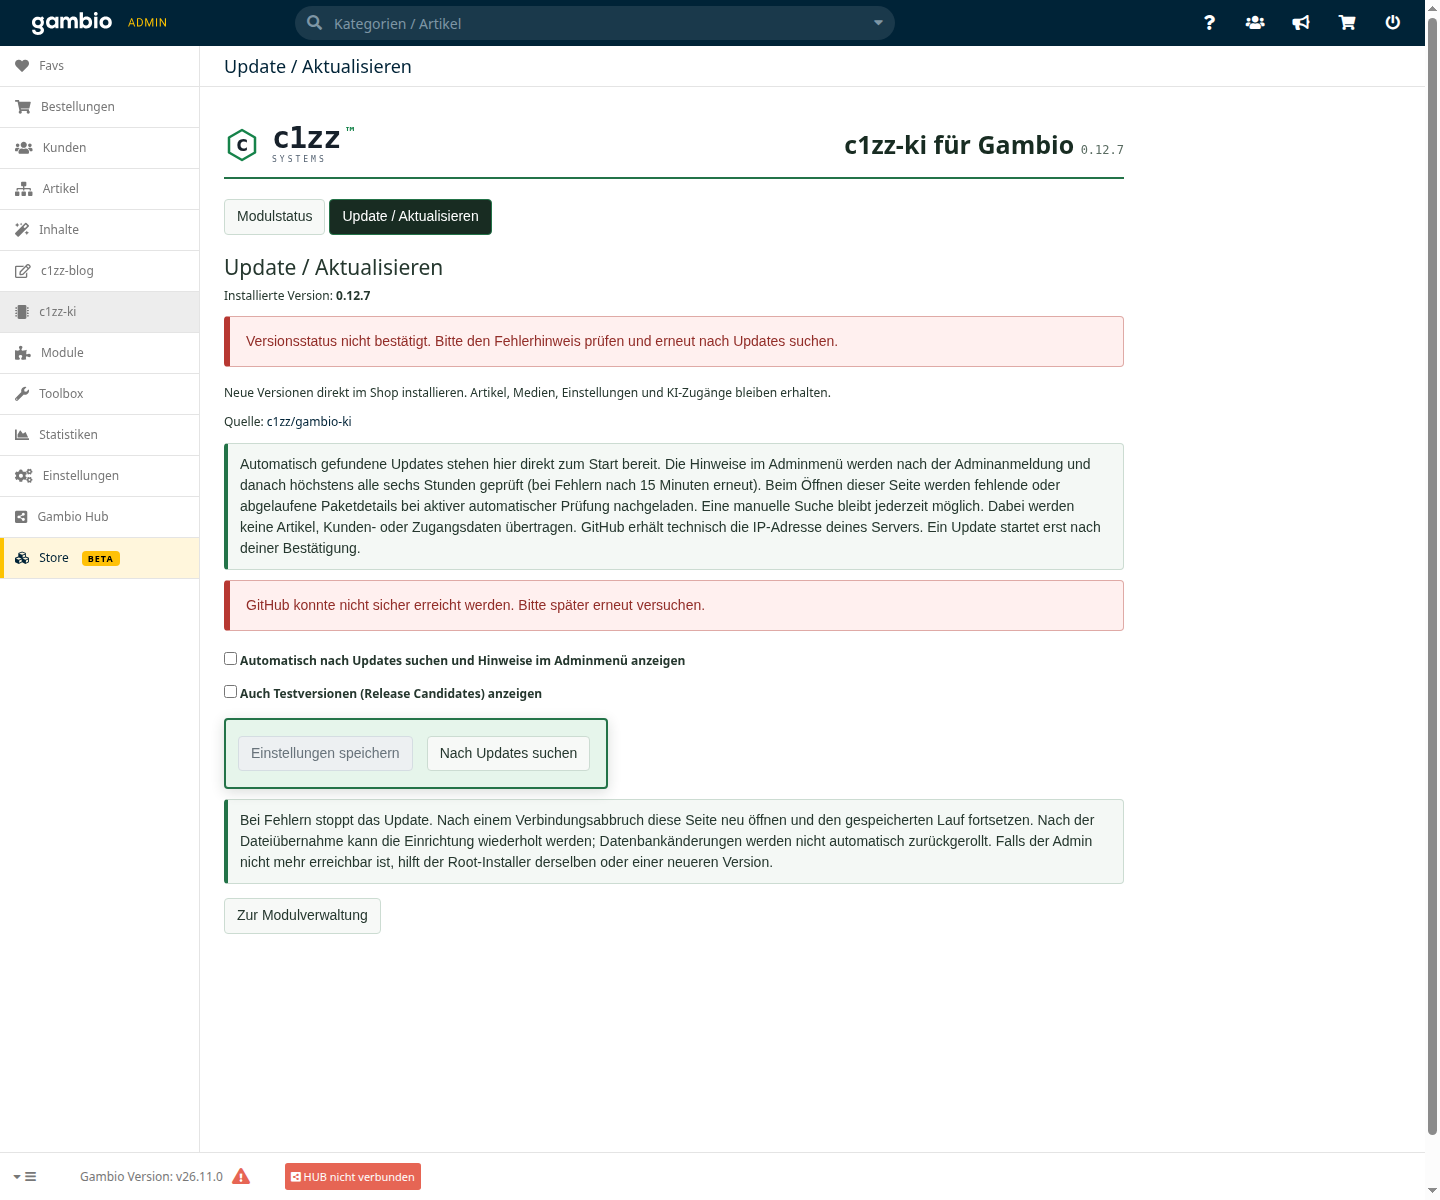
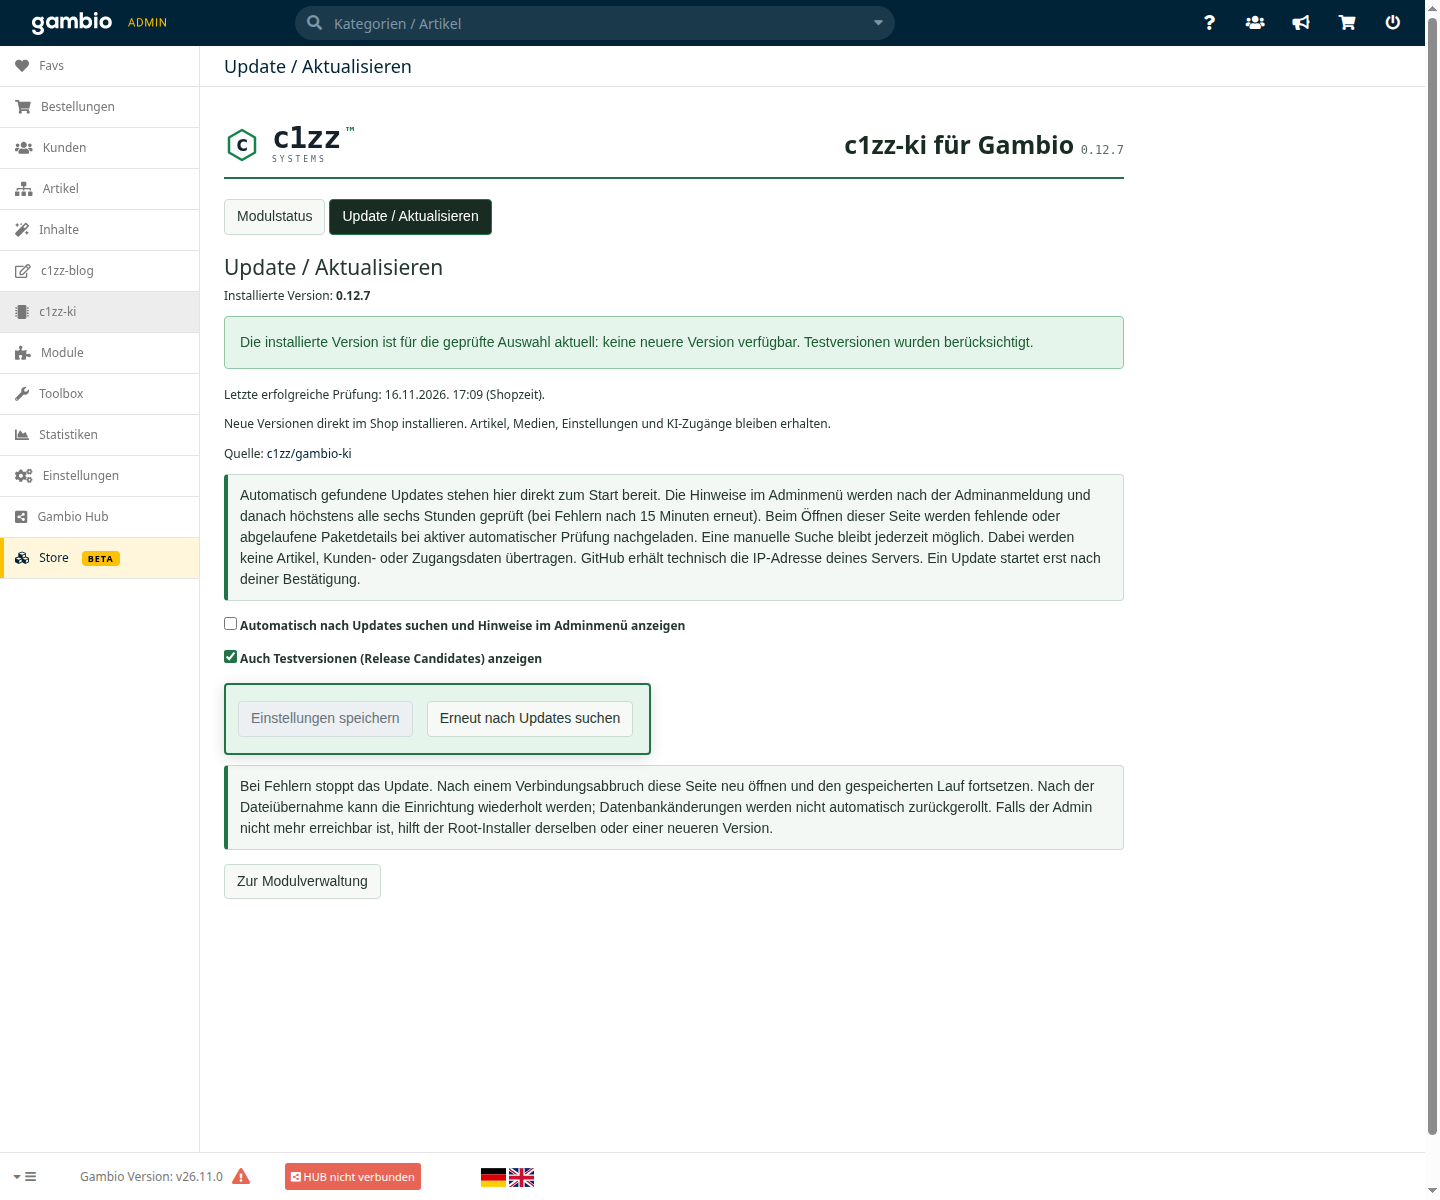
docs: replace failed update screenshot and clarify demonstration states

Changed region(s): [[0.1562, 0.2467, 0.7812, 0.7708], [0.3125, 0.9558, 0.375, 1.0]]

diff --git a/docs/BILDERRUNDGANG.md b/docs/BILDERRUNDGANG.md
@@ -2,7 +2,7 @@
 
 **0.12.7-rc.1 · Modulstand 0.12.7 · Blog 0.48.16**
 
-Alle Abbildungen wurden am 11.11.2026 neu aufgenommen. Sieben Ansichten zeigen den Arbeitsablauf im lokalen GX26-Testshop. Die redaktionellen Beispieltexte und Shopangaben wurden ausschließlich für die Abbildungen in der Browseransicht eingesetzt. Keine gespeicherten Nutzerdaten wurden dadurch geändert. API-Schlüsselfelder sind leer; die Aufnahmen lösten keine KI-Anfragen aus.
+Sieben Ansichten zeigen den Arbeitsablauf im lokalen GX26-Testshop. Anbieterübersicht, Gemini-Einrichtung und Updateverwaltung wurden am **16.11.2026** neu aufgenommen. Die vier redaktionellen Ansichten stammen vom **11.11.2026** und verwenden synthetische Beispieltexte und Anbieterzustände zur Demonstration der Bedienung. Sie belegen keinen Anbieter-Verbindungstest. API-Schlüsselfelder sind leer; für diese Aufnahmen wurden keine KI-Anfragen ausgelöst und keine Nutzerdaten geändert.
 
 ## 1. Bereiche und Anbieter verwalten
 
@@ -12,9 +12,9 @@ Im KI-Modul werden die Zugänge verwaltet und die gewünschten Einsatzbereiche a
 
 ## 2. Gemini verbinden
 
-Schlüsselverwaltung, Ergebnis des Modelllistentests und Hinweise zum kostenlosen Kontingent. Ein erfolgreicher Modelltest ist keine Zusage kostenloser Generierung.
+Die Aufnahme zeigt die Einrichtung vor dem Hinterlegen eines Schlüssels: leeres Eingabefeld und Hinweise zum Kontingent. Ein Verbindungstest wurde in diesem Aufnahmelauf nicht ausgeführt.
 
-[![Google-Gemini-Zugang mit Testergebnis und Kostenhinweis](images/gemini-zugang.png)](images/gemini-zugang.png)
+[![Google-Gemini-Einrichtung mit leerem Schlüsselfeld und Kostenhinweis](images/gemini-zugang.png)](images/gemini-zugang.png)
 
 ## 3. Einen Entwurf vorbereiten
 
@@ -50,6 +50,4 @@ Die Aufnahme **Update / Aktualisieren** zeigt mit KI **0.12.7** die neue Seite n
 
 Alle sieben Aufnahmen zeigen den veröffentlichten Modulstand 0.12.7 zusammen mit Blog 0.48.16. Aufnahmedatum, Versionen und Bildprüfsummen stehen in [screenshots.json](screenshots.json).
 
-Die temporäre Testumgebung verwendet ausschließlich synthetische Anbieter- und Ideenfixtures zur Darstellung der Bedienung. Der angezeigte Verbindungsstatus ist kein Nachweis eines aktuellen Anbietertests. Es wurden keine echten Schlüssel verwendet und keine KI-Anfragen ausgelöst.
-
-Die Update-Aufnahme zeigt den Fehlerhinweis für GitHub, weil die temporäre Prüfumgebung den Abruf nicht zuließ. Dieser Hinweis ist kein fehlgeschlagenes Modulupdate; eine Installation wurde nicht gestartet.
+Die Update-Aufnahme zeigt eine tatsächlich erfolgreiche GitHub-Versionsabfrage einschließlich Testversionen. Es wurde kein Update installiert. Die drei neuen Aufnahmen wurden auf defekte sichtbare Bilder und Fehlermeldungen geprüft und anschließend einzeln angesehen.

diff --git a/README.md b/README.md
@@ -12,7 +12,7 @@ Neue Themen finden und Blogentwürfe erstellen, direkt in **c1zz-blog für Gambi
 
 ![Gemini im Blogassistenten: Modellwahl, Auftrag und Entwurfserstellung](docs/images/blogentwurf.png)
 
-Alle sieben Funktionsansichten wurden am **11.11.2026 mit KI 0.12.7 und Blog 0.48.16** neu aufgenommen. Der [Bilderrundgang](docs/BILDERRUNDGANG.md) zeigt auch die Updateverwaltung.
+Die sieben Funktionsansichten zeigen **KI 0.12.7 und Blog 0.48.16**. Anbieterübersicht, Gemini-Einrichtung und Updateverwaltung wurden am **16.11.2026** erneuert; die vier redaktionellen Beispielansichten stammen vom **11.11.2026**. Der [Bilderrundgang](docs/BILDERRUNDGANG.md) zeigt auch die Updateverwaltung.
 
 ## Vertrauen vor Installation
 
@@ -78,6 +78,6 @@ Spätere Updates starten direkt unter **Update / Aktualisieren**. Die Erstinstal
 
 Bei der normalen Deinstallation werden Zugänge und aktive Einbindungen entfernt. Blogartikel, Medien und gespeicherte Themenvorschläge bleiben erhalten. Mit der zusätzlichen, standardmäßig ausgeschalteten Löschoption werden auch Themenvorschläge und KI-Update-Einstellungen entfernt. Bereits übernommene Bloginhalte bleiben erhalten. Eine Wiederinstallation benötigt neue Anbieterzugänge. Details und Sicherungshinweise stehen in der [Installationsanleitung](docs/INSTALLATION.md).
 
-Die sechs [Abbildungen](docs/BILDERRUNDGANG.md) zeigen die echte Oberfläche im lokalen Testshop mit beispielhaften redaktionellen Texten. Sie zeigen keine API-Schlüssel und dokumentieren keine zusätzlichen Anbieteraufrufe.
+Die sieben [Abbildungen](docs/BILDERRUNDGANG.md) zeigen die echte Oberfläche im lokalen Testshop mit beispielhaften redaktionellen Texten. Die redaktionellen Ansichten verwenden synthetische Anbieterzustände und belegen keinen aktuellen Verbindungstest. Sie zeigen keine API-Schlüssel und dokumentieren keine zusätzlichen Anbieteraufrufe.
 
 Die Ansicht **Update / Aktualisieren** wurde für Blog 0.47.0 / KI 0.12.0 im frischen GX26-Testshop erneuert. Sie zeigt die abschaltbare automatische Prüfung und die gespeicherte Auswahl für Testversionen.
